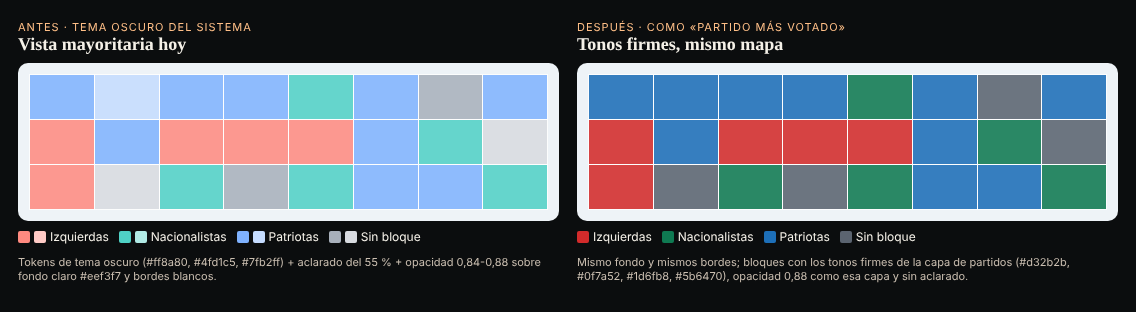
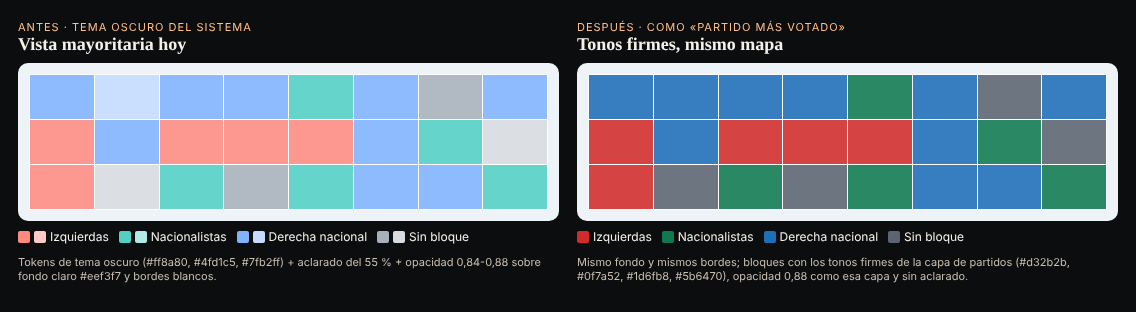
T-458: diseño 1.4.0 (imagen y nombre del distrito, datos del distrito, plan de cambio de bloques)

Changed region(s): [[0.2157, 0.7212, 0.4313, 0.7788], [0.6778, 0.7212, 0.8627, 0.7788]]

diff --git a/docs/ESTUDIOS/T458_mapa_v4/maqueta.html b/docs/ESTUDIOS/T458_mapa_v4/maqueta.html
@@ -45,18 +45,18 @@ a{color:#ffbf87}
  <div><span class="tag">Antes · clic en un distrito</span><h2>Salta a secciones</h2><svg id="d0" width="520" height="300" style="background:#eef3f7;border-radius:10px"></svg>
   <p class="nota">El mapa se acerca hasta zoom 12; al pasar de 7,2 cambia solo a «Sección censal» y oculta los distritos; el distrito clicado desaparece.</p></div>
  <div><span class="tag">Después · datos de EJEMPLO</span><h2>Pop-up del distrito, sin bajar</h2><div style="position:relative"><svg id="d1" width="520" height="300" style="background:#eef3f7;border-radius:10px"></svg>
-  <div style="position:absolute;left:250px;top:40px;width:230px;background:#111516;border:1px solid #76573f;border-radius:10px;padding:10px 12px;box-shadow:0 6px 22px #0006">
-   <small style="letter-spacing:1px;text-transform:uppercase;color:#ffbf87;font-size:10px">Distrito · Huesca</small><h3 style="font:700 17px Georgia,serif;margin:2px 0 6px">Distrito 2</h3>
-   <p style="margin:0 0 6px"><b style="color:#ff8a80">Izquierdas</b> gana en 2.ª vuelta (Tres bloques)</p>
-   <dl><div><dt>1.ª vuelta, más votado</dt><dd>…</dd></div><div><dt>2.ª vuelta</dt><dd>… % – … %</dd></div><div><dt>Población · desviación</dt><dd>… · … %</dd></div></dl>
-   <p class="nota" style="margin:6px 0 0">Ficha completa en el panel →</p></div></div>
-  <p class="nota">El mapa encuadra la provincia (no el distrito) y se queda en distritos; el distrito elegido, con borde grueso; otro clic cambia el pop-up.</p></div>
+  <div style="position:absolute;left:250px;top:14px;width:240px;max-height:272px;overflow:hidden;background:#111516;border:1px solid #76573f;border-radius:10px;box-shadow:0 6px 22px #0006">
+   <div style="height:96px;background:linear-gradient(160deg,#4a6378,#c98f62)"></div>
+   <div style="padding:8px 12px"><small style="letter-spacing:1px;text-transform:uppercase;color:#ffbf87;font-size:10px">Distrito 2 · Huesca</small><h3 style="font:700 17px Georgia,serif;margin:2px 0 6px">Jaca</h3>
+   <dl><div><dt>Población</dt><dd>…</dd></div><div><dt>Votos</dt><dd>…</dd></div><div><dt>Bloque ganador</dt><dd style="color:#ff8a80">Izquierdas · 52,9 %</dd></div></dl>
+   <p class="nota" style="margin:8px 0 0;font-size:10px">(al final del scroll, solo si la licencia lo exige) Foto: autor · CC BY-SA 4.0</p></div></div></div>
+  <p class="nota">Imagen del distrito sin pie; nombre por la regla de §3.2; población, votos y bloque ganador con su %. El mapa no baja a secciones; el distrito elegido, con borde grueso; otro clic cambia la ventana. Nombre y datos de EJEMPLO.</p></div>
 </section>
 <script>
 const S={izq:["#d32b2b"],pat:["#1d6fb8"],nac:["#0f7a52"],sin:["#5b6470"]};
 const P0={izq:"#ff8a80",nac:"#4fd1c5",pat:"#7fb2ff",sin:"#a8b0bb"};
 const mix=(h,t)=>{const n=parseInt(h.slice(1),16);return"#"+[n>>16,(n>>8)&255,n&255].map(c=>Math.round(c+(255-c)*t).toString(16).padStart(2,"0")).join("")};
-const N={izq:"Izquierdas",nac:"Nacionalistas",pat:"Patriotas",sin:"Sin bloque"};
+const N={izq:"Izquierdas",nac:"Nacionalistas",pat:"Derecha nacional",sin:"Sin bloque"};
 let r=11;const rnd=()=>{r=(r*9301+49297)%233280;return r/233280};
 const A=Array.from({length:24},()=>{const k=["izq","pat","izq","pat","nac","sin"][Math.floor(rnd()*6)];return[k,Math.floor(rnd()*4)]});
 document.getElementById("m0").innerHTML=A.map(([k,s])=>`<i style="background:${s<1?mix(P0[k],.55):P0[k]};opacity:.86;outline:1px solid #fff"></i>`).join("");

diff --git a/docs/ESTUDIOS/T458_mapa_v4/T458_DISENO_MAPA_V4.md b/docs/ESTUDIOS/T458_mapa_v4/T458_DISENO_MAPA_V4.md
@@ -1,12 +1,14 @@
 # T-458 · Diseño al detalle del mapa de la V4 (Explorar)
 
-VERSIÓN: 1.3.0 · FECHA: 2026-11-25 · ESTADO: propuesta para aprobación del propietario
+VERSIÓN: 1.4.0 · FECHA: 2026-11-25 · ESTADO: propuesta para aprobación del propietario
+CAMBIOS 1.4.0: el propietario aprueba las preguntas 1-4 de la 1.3.0 tal como se recomendaban; añade (A) imagen del distrito, (B) nombre del
+  distrito, (C) datos del distrito y (D) bloques (plan de cambio, sin implementar aquí).
 CAMBIOS 1.3.0: corrección de rumbo del propietario (25-11): nuestro mapa, sin copiar otra web; colores firmes como la capa de
   resultados; panel con los datos arriba; clic en distrito con ventana emergente y sin bajar a secciones. Fuera por ahora: nivel de
   sección, producto de votos por sección, fondo oscuro y paleta ajena. Preguntas reducidas a las imprescindibles.
 CAMBIOS 1.2.0 y 1.1.0 (commits 8baaf19 y a0bb74c de esta PR): versión sobre la web de referencia y puntos 5-7; sustituidas.
 MOTIVO: comentarios del propietario vía Coordinador.
-ANTERIOR: 1.2.0 en el commit 8baaf19 de esta misma PR (documento sin fusionar; sin copia en `legacy/`)
+ANTERIOR: 1.3.0 en el commit cd24038 de esta misma PR (documento sin fusionar; sin copia en `legacy/`)
 
 Objeto: `visor/v4/mapa/` (`index.html` 1.3.0, `explorar.js`, `explorar.css`). Solo diseño; ningún cambio de código de producto
 hasta que el propietario apruebe. Capturas: `antes_visor_actual.png` (nuestro visor servido en local) y las láminas de
@@ -63,7 +65,7 @@ Fuera: foto, «Conoce el territorio», pie, licencia, créditos y «407 / 350».
 |---|---|
 | España | escaños 2023 (350), distritos DDD, bloques ganadores con la regla elegida, población |
 | Provincia | escaños 2023, distritos DDD, bloques ganadores con la regla, población |
-| Distrito | bloque ganador y vuelta decisiva, 2.ª vuelta (% – %), más votado en 1.ª vuelta, población y desviación |
+| Distrito | población, votos y bloque ganador con su % (punto C, en este orden; sustituye a las cuatro cifras) |
 
 Las cifras salen de lo que ya carga el visor (escaños oficiales, composición, CSV de doble vuelta); no hacen falta datos nuevos.
 
@@ -75,8 +77,9 @@ Hoy (`explorar.js`): el clic hace `focus()` hasta zoom 12; al terminar el zoom, 
 acercar») cambia solo a «Sección censal» y `prepareArea` oculta los distritos. No hay resaltado del distrito elegido.
 
 Propuesta:
-- Clic en un distrito: ventana emergente de MapLibre junto al punto con nombre, provincia, bloque ganador y vuelta, 2.ª vuelta,
-  más votado en 1.ª vuelta, población y desviación; el panel se actualiza con la ficha completa del distrito.
+- Clic en un distrito: ventana emergente de MapLibre junto al punto: imagen del distrito sin pie (§3.1), nombre (§3.2) con
+  «Distrito N · provincia», y en este orden **población, votos y bloque ganador con su %** (§3.3). Si la licencia de la imagen lo
+  exige, una línea de atribución al final, abajo del scroll. El panel se actualiza con la misma ficha.
 - El mapa no se acerca al distrito ni cambia de nivel; el distrito elegido lleva borde grueso (resaltado con `feature-state`).
   Otro clic cambia la ventana y el resaltado; clic fuera o `Esc` la cierra.
 - Se retiran el salto automático a secciones (`zoomend`), la casilla «Detalle de secciones al acercar» y las opciones
@@ -84,14 +87,91 @@ Propuesta:
 
 ![Clic en un distrito: antes y después](distrito.png)
 
+### 3.1 Imagen del distrito (A)
+- **Fuente:** Wikimedia Commons, la imagen principal (propiedad P18 de Wikidata) del municipio que da nombre al distrito (§3.2);
+  si no la tiene, la de su categoría de Commons. Es la misma fuente y el mismo tratamiento que la galería provincial de hoy
+  (`visor/v2/galeria/catalogo.json`, T-325).
+- **Cuántas:** 407 distritos del Congreso; los municipios que dan nombre son 295 distintos (`datos/distritos/nombres_congreso_*.csv`,
+  columna `municipio_principal`). Los distritos de un mismo municipio (Madrid 1…N) comparten imagen. Las autonómicas, después.
+- **Cómo se eligen:** herramienta nueva que, por municipio, toma la P18 y comprueba la licencia en la ficha de Commons; preferencia
+  CC0 / dominio público (sin atribución), después CC BY y CC BY-SA. Sin P18 o con licencia no permitida: sin imagen (no se rellena
+  con otra). Hoja de contactos para que el propietario descarte las que no quiera.
+- **Cómo se guardan y sirven:** WebP de 800 px de ancho (la galería de hoy: 62 imágenes en 3,3 MB, unos 53 KB cada una), catálogo
+  JSON con autor, licencia, enlace de origen, sha1 de Commons y sha256 del WebP. Unos 16 MB para 295 imágenes: en R2 (`mapas/`, lo
+  sirve P40) mejor que en git. Carga diferida: solo al abrir la ventana.
+- **Atribución:** con CC0 / dominio público, ninguna. Con CC BY / CC BY-SA es obligatoria (autor, licencia, indicación de cambios);
+  va en una línea al final de la ventana, abajo del scroll, con enlace a la ficha de créditos.
+- **Coste:** una ejecución de la herramienta (minutos) más la revisión de la hoja por el propietario; sin coste de servicio. Ojo:
+  desde esta sesión `wikidata.org`, `commons.wikimedia.org` y `upload.wikimedia.org` no son accesibles; hay que pedir esos hosts en
+  el entorno o hacerlo en un runner de GitHub.
+
+### 3.2 Nombre del distrito (B)
+Hoy existe `herramientas/generar_nombres_comunidades_nacional.py` (T-64), que escribe `datos/distritos/nombres_congreso_*.csv`
+(407 distritos) con: un municipio → «municipio» o «municipio N» si está repartido; varios municipios → nombre de la comarca si todos
+caen en una, si no «<más poblado> y entorno» (267 de 407 acaban en «y entorno»). El visor no los usa (`nombres: {}` en el índice).
+
+Regla propuesta:
+1. **Cabeza de comarca:** si el distrito contiene la capital de un partido judicial (unidad de T-64), ese municipio; si contiene
+   varias, la más poblada.
+2. **Si no**, el municipio más poblado del distrito (INE 2025, `datos/distritos/municipios_ine_2025.csv`, ya con sha256 en el
+   MANIFEST).
+3. **Municipio repartido entre distritos** (Madrid, Barcelona…): «Madrid 1…N», numerados de norte a sur y de oeste a este (regla
+   que ya aplica la herramienta). Los nombres de barrios o distritos municipales no están en ningún fichero del repositorio (el
+   seccionado del INE solo da el código del distrito municipal).
+4. Sin «y entorno». Topónimos solo en español con `datos/distritos/toponimos_es.csv` (hoy falta, por ejemplo, Vitoria: sale
+   «Vitoria-Gasteiz»).
+
+Dato que falta: **la capital de cada partido judicial.** `configuracion/partidos_judiciales.csv` (Ley 38/1988, Anexo I) da municipio →
+número de partido, pero no la capital: según el art. 4.4 de esa ley, la fijan las leyes de cada comunidad, y el partido se nombra por
+ella (art. 4.5). Hay que incorporarla de una fuente oficial con huella (las leyes autonómicas de capitalidad o la relación del
+Ministerio de Justicia o del CGPJ) antes de aplicar el paso 1.
+
+### 3.3 Datos del distrito (C)
+En este orden, todos de ficheros que el visor ya carga:
+- **Población:** composición del distrito (`poblacion_distrito` de `nombres_congreso_*.csv` / propiedad del GeoJSON).
+- **Votos:** votos a candidaturas del distrito: suma de `votos_1v` de sus filas en `detalle.csv` de la doble vuelta (en `resultados_doble_vuelta.csv`, `votos_1v` es solo el del ganador).
+- **Bloque ganador con su %:** `bloque_ganador` y su cuota en la vuelta que decide (`cuota_ganador_2v` o `cuota_1v`), con la regla
+  elegida.
+
 ## 4. Ficheros que tocaría la implementación
 `visor/v4/mapa/index.html`, `explorar.js`, `explorar.css` y `visor/v4/tokens-bloques.css` (o tokens propios del mapa). Sin
 herramientas, workflows ni datos nuevos. Cada fichero sube VERSIÓN con copia en `legacy/`.
 
-## 5. Preguntas
+## 5. Preguntas de la 1.3.0
+Aprobadas por el propietario (25-11) tal como se recomendaban: colores de los bloques, ajustado solo en texto, cifras del panel
+(con el cambio del punto C para el distrito) y retirada del nivel de sección.
 
-1. **Colores de los bloques:** `#d32b2b`, `#1d6fb8`, `#0f7a52`, `#5b6470`, fijos en los dos temas. Recomendación: sí.
-2. **Ventaja ajustada (< 5 puntos):** ¿sin color propio (solo en texto) o con un tono algo más claro? Recomendación: solo en texto.
-3. **Cuatro cifras del panel** según la tabla del §2. Recomendación: sí.
-4. **Nivel de sección:** ¿se retira del selector y del zoom (no solo del clic)? Recomendación: sí, hasta que exista el producto
-   por sección.
+## 6. Bloques (D): plan de cambio, no se implementa en esta PR
+
+**Qué pide el propietario:** «Patriotas» pasa a «Derecha nacional»; «Izquierdas» se queda; los nacionalistas, de izquierda o de
+derecha, en un bloque propio.
+
+**Qué hay hoy** (`configuracion/bloques_partidos_2026-11-17.csv` y `bloques_partidos_autonomicas_2026-11-19.csv`): los nacionalistas
+de izquierda y de derecha **ya están** en un solo bloque «Nacionalistas» (EAJ-PNV, CiU–Junts, CC, PDeCAT con EH Bildu, ERC, BNG, CUP…;
+D-167, D-182). El cambio real es **solo el nombre** «Patriotas» → «Derecha nacional»; no se mueve ningún partido de bloque, así que
+**ningún ganador ni porcentaje cambia**. (Si el propietario quiere además mover algún partido, se lista aparte.)
+
+**Dos caminos:**
+- **(a) Solo en la web:** el visor muestra «Derecha nacional» donde el dato dice «Patriotas» (`dv.js`, `explorar.js`,
+  `comprender.html`). Una PR de visor y una publicación P40. Sin relanzar nada. El dato publicado sigue diciendo «Patriotas».
+- **(b) En el origen (dato y web iguales):**
+  1. PR de datos y herramientas: tablas `bloques_partidos_*` nuevas fechadas (sin tocar las aprobadas), `herramientas/doble_vuelta.py`
+     (`BLOQUES`, `dv_B`), `herramientas/bloques_autonomicas.py` (`PAT`), P30 si lee la tabla por fecha, y los tests que lo citan
+     (`test_t409_*`, `test_t418_p75`, `test_t419_publicar_doble_vuelta`, `test_t421_*`, `test_t427_p75_aut`, `test_visor_v4_*`).
+     Decisión nueva (D-xx) que actualiza D-167/D-182.
+  2. PR del visor (la misma que en (a), leyendo el nombre nuevo).
+  3. Relanzar **P75 nacional** (52 provincias) y **P75 autonómicas** (las 16 con doble vuelta: aut11, aut18 y aut19 son `NO_APLICA`): cambian los ZIP y sus sha256.
+  4. **P40** para publicar los CSV nuevos y el visor.
+  Orden: 1 → 2 → 3 → 4, con CI en verde entre cada paso; 3 y 4 con autorización del propietario en el chat del Operador.
+
+Recomendación: **(b)**, para que dato y web digan lo mismo; el coste es un P75 completo y un P40.
+
+## 7. Preguntas
+
+1. **Regla de nombre** de §3.2 (capital de partido judicial; si no, el más poblado; «Madrid 1…N»). Recomendación: sí, e incorporar
+   antes las capitales de partido de fuente oficial con huella.
+2. **Distritos de un mismo municipio:** ¿número («Madrid 4») o nombre de barrio? Recomendación: número (no hay fuente de barrios en el
+   repositorio).
+3. **Imágenes:** Wikimedia Commons por la P18 del municipio, preferencia CC0 / dominio público, servidas desde R2. Recomendación: sí.
+4. **Distrito sin imagen con licencia válida:** ¿sin imagen o la de la provincia? Recomendación: sin imagen.
+5. **Bloques:** ¿camino (a) solo web o (b) en el origen con P75 y P40? Recomendación: (b).

diff --git a/docs/registro/2026-11-24_t458-diseno-mapa-v4.md b/docs/registro/2026-11-24_t458-diseno-mapa-v4.md
@@ -5,3 +5,7 @@
   azulado; la geometría de distritos no está simplificada), panel derecho con los datos de lo seleccionado arriba y sin foto,
   créditos ni 407/350, y clic en distrito con ventana emergente sin bajar a secciones. Maqueta, capturas antes/después y 4
   preguntas con recomendación. Sin cambios de código de producto.
+- 1.4.0 (25-11): preguntas 1-4 aprobadas; añadidos imagen del distrito (Wikimedia Commons por la P18 del municipio, R2), regla de
+  nombre (capital de partido judicial o municipio más poblado; falta la capital de partido de fuente oficial), datos del distrito
+  (población, votos, bloque ganador con %) y plan del cambio de bloques «Patriotas» → «Derecha nacional» (solo nombre; ficheros,
+  PR y relanzamientos P75/P40), sin implementar. 5 preguntas.
